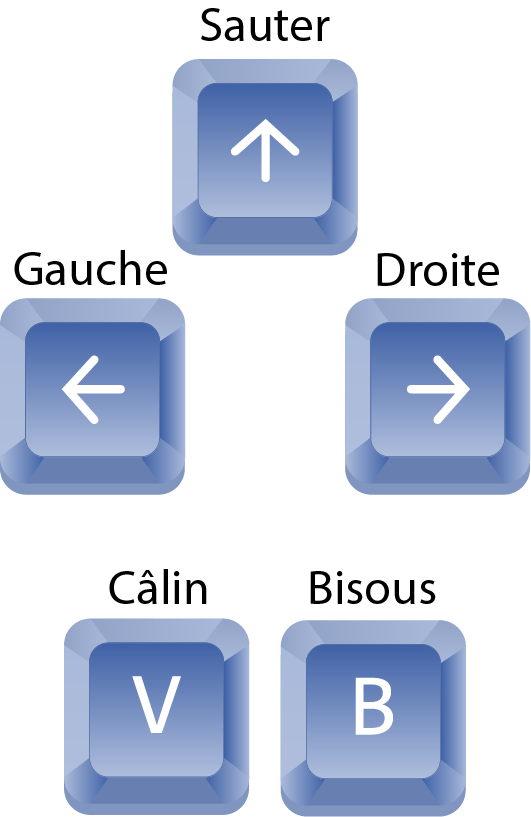
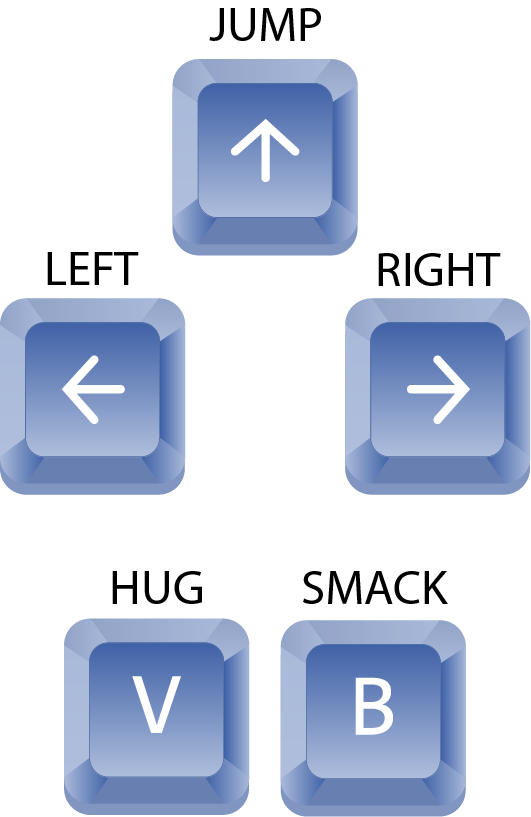
site translation

diff --git a/frontend/src/Components/Pages/HomePage.js b/frontend/src/Components/Pages/HomePage.js
@@ -16,14 +16,14 @@ function renderHomePage() {
   const main = document.querySelector('main');
   const homepage = `
   <div class="d-flex flex-column align-items-center justify-content-center h-100">
-    <h3 class="text-lavender position-absolute bottom-50 start-50">Aimez-vous 💜</h3>
+    <h3 class="text-lavender position-absolute bottom-50 start-50">Let's love each other ! 💜</h3>
     <button type="button" class="btn btn-warning position-absolute start-45 py-4 w-25 fs-3">
-      LANCER LA PARTIE
+      START
     </button>
   
     <div class="d-flex align-items-end h-100 position-relative">
       <div class="col-1 position-absolute end-1 mb-5 d-flex justify-content-end">
-      <img id="rules-icon" class="col-7" role="button" data-bs-toggle="modal" data-bs-target="#rules" src="${rulesIcon}" alt="Règles du jeu">
+      <img id="rules-icon" class="col-7" role="button" data-bs-toggle="modal" data-bs-target="#rules" src="${rulesIcon}" alt="Game rules">
       </div>
       <img class="col-12" src="${robotsHomepage}" alt="robots">
     </div>
@@ -32,38 +32,36 @@ function renderHomePage() {
       <div class="modal-dialog modal-dialog-centered modal-dialog-scrollable">
         <div class="modal-content">
           <div class="modal-header">
-            <h2 class="modal-title fw-bold" id="rulesLabel">Règles du jeu</h2>
+            <h2 class="modal-title fw-bold" id="rulesLabel">Game rules</h2>
             <button type="button" class="btn-close" data-bs-dismiss="modal" aria-label="Close"></button>
           </div>
           <div class="modal-body">
-            <h5><b><u>Description du jeu</u> :</b></h5>
-            <p class="fs-5"> Space Lover est un jeu de "combat" 1v1 en 2D qui plonge les joueurs dans un univers spatial et futuriste.
-                Il se démarque des jeux de combat traditionnels.<br><br>
-                Au début de la partie, la jauge d'affection des joueurs est totalement vide.<br>
-                Les attaques consistent en câlins et bisous afin de remplir la jauge d'affection de l'adversaire.<br>
-                Enfin, le joueur perd la partie lorsque sa propre jauge atteint son maximum. 
+            <h5><b><u>Game description</u> :</b></h5>
+            <p class="fs-5"> Space Lover is a 2D "combat" game that immerses players in a futuristic space setting. It stands out from traditional combat games.<br><br>
+            At the beginning of the game, players' affection meters are completely empty.<br>
+            Attacks involve hugs and kisses to fill the opponent's affection meter.<br>
+            Finally, the player loses the game when their own meter reaches its maximum.
             </p>
-            <h5><b><u>Commandes</u> :</b></h5>
+            <h5><b><u>Game controls</u> :</b></h5>
             <div class="d-flex text-center pt-2">
               <div> 
-                <p> <b> JOUEUR 1</b></p>
+                <p> <b> PLAYER 1</b></p>
                 <img class="col-12 pt-0 p-4" src="${player1Controls}" 
-                  alt="Le joueur 1 jouera avec les flèches directionnelles gauche, droite et haut 
-                    afin de respectivement se déplacer à gauche, droite et sauter. 
-                    Il lancera ses attaques avec O (bisous) et P (câlin)">
+                  alt="The player 1 will use the left, right, and up arrow keys to respectively move to the left, right, and jump.
+                   They will launch their attacks with O (kisses) and P (hug)">
               </div>
               
               <div> 
-                <p> <b> JOUEUR 2</b></p>
+                <p> <b> PLAYER 2</b></p>
                 <img class="col-12 pt-0 p-4" src="${player2Controls}" 
-                  alt="Le joueur 2 jouera avec les touches Q (gauche), D (droite) et Z (saut).
-                    Il lancera ses attaques avec B (bisous) et V (câlin)">
+                  alt="Player 2 will use the keys Q (left), D (right), and Z (jump). 
+                  They will launch their attacks with B (kisses) and V (hug)">
               </div>
               
             </div>
           </div>
           <div class="modal-footer">
-            <button class="btn btn-warning" data-bs-dismiss="modal">Fermer</button>
+            <button class="btn btn-warning" data-bs-dismiss="modal">Close</button>
           </div>
         </div>
       </div>

diff --git a/frontend/src/Components/Pages/RegisterPage.js b/frontend/src/Components/Pages/RegisterPage.js
@@ -12,18 +12,18 @@ function renderRegisterForm() {
     main.innerHTML = `
     <div class="container bg-black px-5 py-4 rounded-5 bg-opacity-50 col-3">
       <form class="text-center text-light">
-        <div class="bg-warning p-2 rounded mt-2 mb-3 text-dark fs-3">S'inscrire</div>
+        <div class="bg-warning p-2 rounded mt-2 mb-3 text-dark fs-3">Sign in</div>
 
         <div class="d-flex flex-column form-group">
-          <label for="username" class="form-label">Pseudo :</label>
+          <label for="username" class="form-label">Nickname :</label>
           <input class="bg-lavender form-control mb-3" type="text"  id="username" name="username" required>
-          <label for="password" class="form-label">Mot de passe :</label>
+          <label for="password" class="form-label">Password :</label>
           <input class="bg-lavender form-control mb-3" type="password"  id="password" name="password" required>
-          <label for="comfirm_password" class="form-label">Confirmer le mot de passe :</label>
+          <label for="comfirm_password" class="form-label">Confirm password :</label>
           <input class="bg-lavender form-control mb-2" type="password"  id="password" name="comfirm_password" required>
         </div>
 
-        <button type="submit" class="btn btn-warning mt-3 col-8 rounded-5">S'inscrire</button>
+        <button type="submit" class="btn btn-warning mt-3 col-8 rounded-5">Sign in</button>
       </form>
     </div>
     `;

diff --git a/frontend/src/Components/Pages/ScorePage.js b/frontend/src/Components/Pages/ScorePage.js
@@ -14,19 +14,19 @@ main.innerHTML = `
     <div>
         <div class="mt-5">
             <div class="d-flex justify-content-between">
-                <p class="col-sm-6 py-1 rounded-3 text-white">Pseudo</p>
+                <p class="col-sm-6 py-1 rounded-3 text-white">Nickname</p>
                 <p class="bg-lavender col-5 rounded-3">Ishou</p>
             </div>
             <div class="d-flex justify-content-between">
-            <p class="col-sm-6 py-1 rounded-3 text-white">Parties jouées</p>
+            <p class="col-sm-6 py-1 rounded-3 text-white">Games played</p>
             <p class="bg-lavender col-5 rounded-3">100</p>
             </div>
             <div class="d-flex justify-content-between">
-            <p class="col-sm-6 py-1 rounded-3 text-white">Parties gagnées</p>
+            <p class="col-sm-6 py-1 rounded-3 text-white">Games won</p>
             <p class="bg-lavender col-5 rounded-3">0</p>
             </div>
             <div class="d-flex justify-content-between">
-            <p class="col-sm-6 py-1 rounded-3 text-white">Parties perdues</p>
+            <p class="col-sm-6 py-1 rounded-3 text-white">Games lost</p>
             <p class="bg-lavender col-5 rounded-3">100</p>
         </div>
         </div>

diff --git a/frontend/src/Components/Pages/LoginPage.js b/frontend/src/Components/Pages/LoginPage.js
@@ -12,16 +12,16 @@ function renderLoginForm() {
     main.innerHTML = `
     <div class="container bg-black px-5 py-4 rounded-5 bg-opacity-50 col-3">
       <form class="text-center text-light">
-        <div class="bg-warning p-2 rounded mt-2 mb-3 text-dark fs-3">Connectez-vous</div>
+        <div class="bg-warning p-2 rounded mt-2 mb-3 text-dark fs-3">Log in</div>
 
         <div class="d-flex flex-column form-group">
-          <label for="username" class="form-label">Pseudo :</label>
+          <label for="username" class="form-label">Nickname :</label>
           <input class="bg-lavender form-control mb-3" type="text"  id="username" name="username" required>
-          <label for="password" class="form-label">Mot de passe :</label>
+          <label for="password" class="form-label">Password :</label>
           <input class="bg-lavender form-control mb-2" type="password"  id="password" name="password" required>
         </div>
 
-        <button type="submit" class="btn btn-warning mt-3 col-8 rounded-5">Se connecter</button>
+        <button type="submit" class="btn btn-warning mt-3 col-8 rounded-5">Log in</button>
       </form>
     </div>
     `;

diff --git a/frontend/src/Components/Navbar/Navbar.js b/frontend/src/Components/Navbar/Navbar.js
@@ -24,15 +24,15 @@ const Navbar = () => {
               </li>
 
               <li class="nav-item col-2">
-                <a class="nav-link" href="#" ><img data-uri="/rank" class="w-100 mt-4" src="${rankIcon}" alt="Classement"></a>
+                <a class="nav-link" href="#" ><img data-uri="/rank" class="w-100 mt-4" src="${rankIcon}" alt="Ranking"></a>
               </li>
               
               <li class="nav-item btn btn-warning mx-2 my-5" data-uri="/login">
-                <a class="nav-link text-black" href="#" data-uri="/login">Se connecter</a>
+                <a class="nav-link text-black" href="#" data-uri="/login">Log in</a>
               </li>
               
               <li class="nav-item btn btn-warning mx-2 my-5" data-uri="/register">
-                <a class="nav-link text-black" href="#" data-uri="/register">S'inscrire</a> 
+                <a class="nav-link text-black" href="#" data-uri="/register">Sign in</a> 
               </li>
             </ul>
           </div>

diff --git a/frontend/src/Components/Pages/RankPage.js b/frontend/src/Components/Pages/RankPage.js
@@ -10,11 +10,11 @@ function renderRankPage() {
 
   main.innerHTML = `
     <div class="container col-3 bg-black px-5 pt-4 pb-5 rounded-5 bg-opacity-50 text-center justify-content-center">
-        <div class="bg-warning p-2 rounded mt-2 mb-4 fs-3 ">Classement</div>
+        <div class="bg-warning p-2 rounded mt-2 mb-4 fs-3 ">Ranking</div>
         <div>
             <div class="d-flex text-white justify-content-around">
-                <p class="col-7">Pseudo</p>
-                <p class="col">Parties gagnées</p>
+                <p class="col-7">Nicknames</p>
+                <p class="col">Games won</p>
             </div>
             <div>
                 <div class="d-flex justify-content-between">

diff --git a/frontend/src/Components/Footer/Footer.js b/frontend/src/Components/Footer/Footer.js
@@ -10,10 +10,10 @@ function getRandomAdvice() {
     .then((response) => response.json())
     .then((data) => {
       const {advice} = data.slip;
-    footer.innerHTML = `<h6><u> Advice</u>: <i> ${advice} </i></h6>`;
+    footer.innerHTML = `<h6><b><u> Advice</u> : </b><i> ${advice} </i></h6>`;
   })
   .catch( () => {
-    footer.innerHTML = `<h6><u> Advice</u>: <i> Happiness is a journey, not a destination. </i></h6>`;
+    footer.innerHTML = `<h6><b><u> Advice</u> : </b><i> Happiness is a journey, not a destination. </i></h6>`;
   });
 };
 
